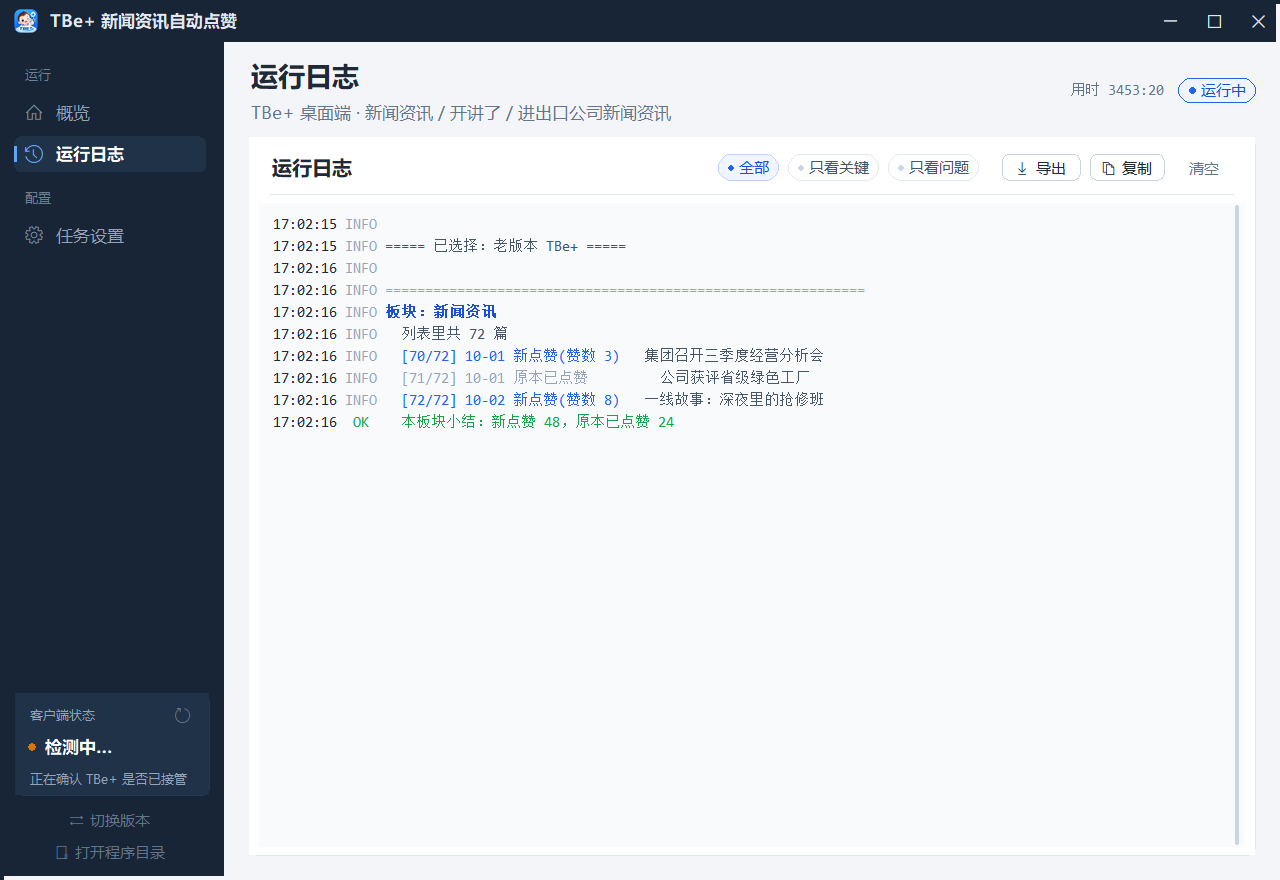
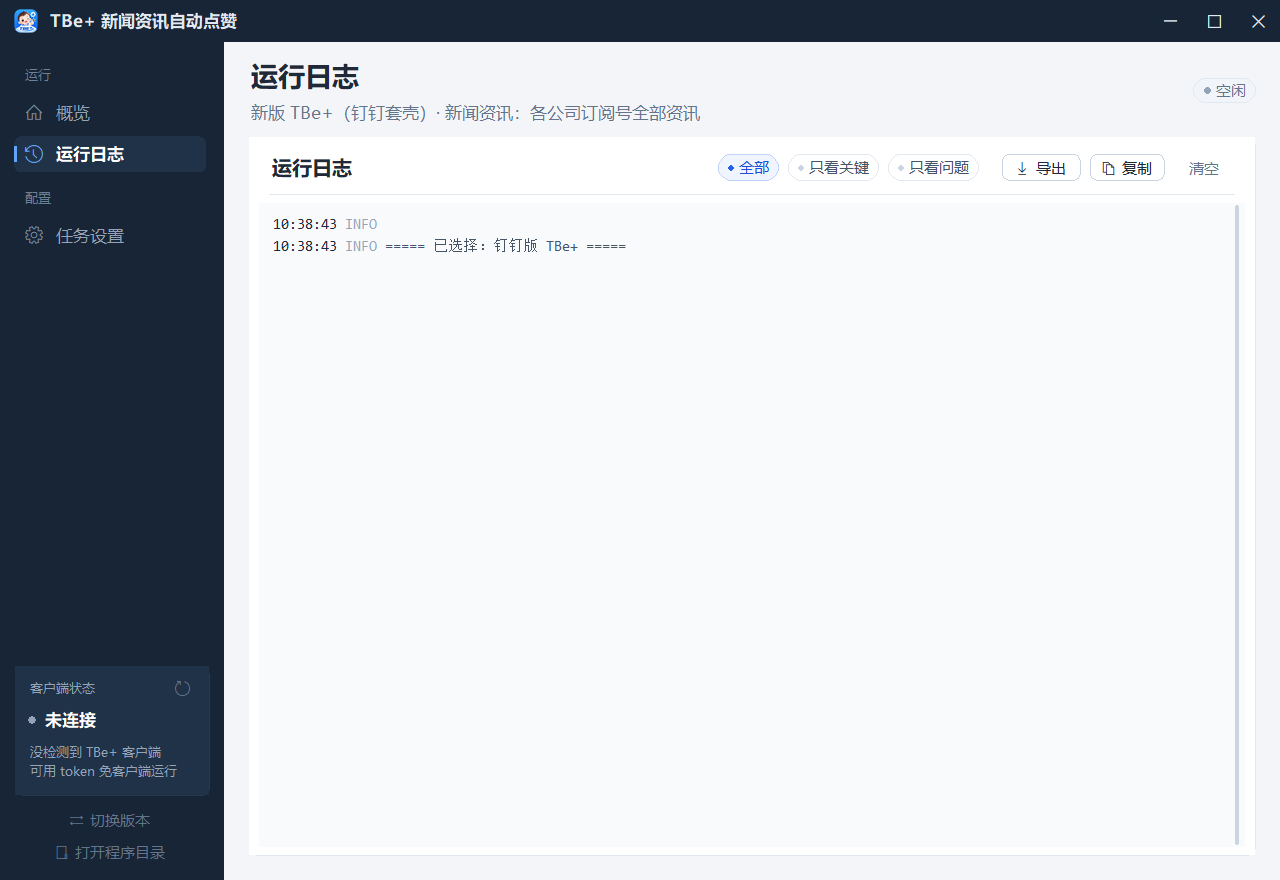
fix(ui): 修无边框窗口边缘漏白与侧栏状态卡裁切（1.7.1）
- 拖拽热区按区域拆分：标题栏/侧栏深色、内容区浅色，版本页全浅色；
  去掉标题栏右侧热区，避免盖住关闭按钮最右 4px（关闭 hover 不再缺一角）
- 侧栏「客户端状态」卡去掉写死高度，改 Panel.fit() 按内容算高；
  说明 Label 加 wraplength=166 并精简文案，状态变化后重新 fit
- 版本 1.7.0 → 1.7.1；README、UI改造说明、docs/screenshots 同步
- 验证：四边像素采样无白边；说明完整在卡内、底部按钮不溢出侧栏；
  三页切换/开关/写回/无客户端试运行复位通过

engine.py / client.py / newsapi.py / config.py 零改动。

diff --git a/tbeplus/ui.py b/tbeplus/ui.py
@@ -314,34 +314,49 @@ class App:
             self.root.after(30, lambda: self.root.overrideredirect(True))
 
     def _install_grips(self) -> None:
-        """无边框窗口的边缘拖拽热区（4px，颜色与所在区域一致，看不出来）。"""
-        self._grips: list = []
-        specs = {
-            "n": ("size_ns", C["nav"]), "s": ("size_ns", C["bg"]),
-            "w": ("size_we", C["nav"]), "e": ("size_we", C["bg"]),
-            "nw": ("size_nw_se", C["nav"]), "ne": ("size_ne_sw", C["nav"]),
-            "sw": ("size_ne_sw", C["nav"]), "se": ("size_nw_se", C["bg"]),
+        """无边框窗口的边缘拖拽热区。
+
+        热区是真实控件，颜色必须与它盖住的那块背景一致，否则会在标题栏、
+        深色侧栏上露白。左右两边的高度、底边的分段都按实际布局算。
+        """
+        self._grips: dict = {}
+        cursors = {
+            "n": "size_ns", "s": "size_ns", "s_left": "size_ns",
+            "w": "size_we", "w_top": "size_we",
+            "e": "size_we",
+            "nw": "size_nw_se", "ne": "size_ne_sw",
+            "sw": "size_ne_sw", "se": "size_nw_se",
         }
-        for name, (cursor, color) in specs.items():
-            frame = tk.Frame(self.root, bg=color, cursor=cursor)
+        for name, cursor in cursors.items():
+            frame = tk.Frame(self.root, bg=C["bg"], cursor=cursor)
             frame.bind("<ButtonPress-1>",
                        lambda e, n=name: self._resize_start(e, n))
             frame.bind("<B1-Motion>", self._resize_move)
-            self._grips.append((name, frame))
+            self._grips[name] = frame
 
     def _place_grips(self) -> None:
         if not getattr(self, "_grips", None):
             return
         g = 4
         w, h = self.root.winfo_width(), self.root.winfo_height()
+        side = T.SIDEBAR_W if self.mode else g
+        side_color = C["nav"] if self.mode else C["bg"]
+        # 名称 -> (x, y, 宽, 高, 颜色)。标题栏永远深色，侧栏只在实际显示时深色。
         pos = {
-            "n": (g, 0, w - 2 * g, g), "s": (g, h - g, w - 2 * g, g),
-            "w": (0, g, g, h - 2 * g), "e": (w - g, g, g, h - 2 * g),
-            "nw": (0, 0, g, g), "ne": (w - g, 0, g, g),
-            "sw": (0, h - g, g, g), "se": (w - g, h - g, g, g),
+            "n": (g, 0, max(0, w - 2 * g), g, C["nav"]),
+            "w_top": (0, 0, g, TITLEBAR_H, C["nav"]),
+            "w": (0, TITLEBAR_H, g, max(0, h - TITLEBAR_H - g), side_color),
+            # 标题栏右侧不做热区：会把关闭按钮最右边 4px 压成深色
+            "e": (w - g, TITLEBAR_H, g, max(0, h - TITLEBAR_H - g), C["bg"]),
+            "s_left": (0, h - g, side, g, side_color),
+            "s": (side, h - g, max(0, w - side - g), g, C["bg"]),
+            "nw": (0, 0, g, g, C["nav"]), "ne": (w - g, 0, g, g, C["nav"]),
+            "sw": (0, h - g, g, g, side_color), "se": (w - g, h - g, g, g, C["bg"]),
         }
-        for name, frame in self._grips:
-            x, y, fw, fh = pos[name]
+        for name, frame in self._grips.items():
+            x, y, fw, fh, color = pos[name]
+            if str(frame.cget("bg")) != color:
+                frame.configure(bg=color)
             frame.place(x=x, y=y, width=fw, height=fh)
             frame.lift()
 
@@ -404,6 +419,7 @@ class App:
     def _show_mode_select(self) -> None:
         self.shell.pack_forget()
         self.mode_page.pack(fill=BOTH, expand=True)
+        self._place_grips()
         self.root.after(80, self._reveal_mode_cards)
 
     def _reveal_mode_cards(self) -> None:
@@ -416,6 +432,7 @@ class App:
         self.mode = mode
         self.mode_page.pack_forget()
         self.shell.pack(fill=BOTH, expand=True)
+        self._place_grips()
         self._build_board_chips()
         for name in self.nav:
             self.nav[name].set_active(name == HOME)
@@ -486,9 +503,9 @@ class App:
         footer.pack(side="bottom", fill=X, padx=14, pady=14)
 
         card = W.Panel(footer, radius=9, fill=C["nav_active"],
-                       stroke=C["nav_line"], height=104, bg=C["nav"])
+                       stroke=C["nav_line"], bg=C["nav"])
         card.pack(fill=X)
-        card.pack_propagate(False)
+        self.status_card = card
         body = card.body
         head = tk.Frame(body, bg=C["nav_active"])
         head.pack(fill=X, padx=12, pady=(9, 0))
@@ -507,10 +524,12 @@ class App:
         tk.Label(line, textvariable=self.status_var, font=T.f(10, True),
                  fg=C["on_dark"], bg=C["nav_active"], anchor="w").pack(
             side=LEFT, padx=(6, 0))
-        self.status_note = StringVar(value="")
+        self.status_note = StringVar(value="\u00a0\n\u00a0")
         tk.Label(body, textvariable=self.status_note, font=T.f(8),
                  fg=C["nav_muted"], bg=C["nav_active"], anchor="w",
-                 justify="left").pack(anchor="w", padx=12, pady=(4, 0))
+                 justify="left", wraplength=166).pack(
+            fill=X, padx=12, pady=(4, 2))
+        card.fit(extra=10)
 
         W.Btn(footer, "切换版本", self._switch_mode, variant="ghost",
               icon="\uE8AB", width=T.NAV_W, height=30, size=9,
@@ -1119,18 +1138,19 @@ class App:
         if port:
             self.cfg.debug_port = port
             title = (targets[0][1] if targets else "") or ""
-            title = title[:16] + ("…" if len(title) > 16 else "")
+            title = title[:12] + ("…" if len(title) > 12 else "")
             self.status_var.set("已连接")
             self.status_note.set(f"端口 {port} · 视图 {len(targets)} 个\n{title}")
             self._draw_dot(C["ok"])
         elif running:
             self.status_var.set("未接管")
-            self.status_note.set("TBe+ 在运行，但没有调试端口\n点「准备」重启并接管")
+            self.status_note.set("TBe+ 在运行，无调试端口\n点「准备」重启并接管")
             self._draw_dot(C["warn"])
         else:
             self.status_var.set("未连接")
-            self.status_note.set("没检测到 TBe+ 客户端\n有 token 时可免客户端直接跑")
+            self.status_note.set("没检测到 TBe+ 客户端\n可用 token 免客户端运行")
             self._draw_dot(C["text3"])
+        self.status_card.fit(extra=10)
         self._refresh_adv()
         self._sync_attach_button()
 

diff --git a/tbeplus/__init__.py b/tbeplus/__init__.py
@@ -9,5 +9,5 @@
     ui       图形界面
 """
 
-__version__ = "1.7.0"
+__version__ = "1.7.1"
 __all__ = ["config", "ws", "cdp", "client", "engine", "ui"]

diff --git a/docs/UI改造说明.md b/docs/UI改造说明.md
@@ -494,3 +494,20 @@ tkinter 的普通子控件没有 opacity/transform，也没有原生组件过渡
 `tbeplus/motion.py`（新增）、`tbeplus/widgets.py`、`tbeplus/ui.py`、`tbeplus/__init__.py`（1.7.0）、
 `assets/mode_old.png`、`assets/mode_dingtalk.png`、`README.md`、`docs/screenshots/*`。
 业务文件 `engine.py` / `client.py` / `newsapi.py` / `config.py` 未改。
+
+
+---
+
+## 十一、1.7.1：修边界色与侧栏状态卡裁切（2026-10-28）
+
+问题来自实际运行截图，两处都是布局细节，不涉及业务：
+
+| 现象 | 原因 | 修法 |
+| --- | --- | --- |
+| 关闭按钮右侧一条白边、窗口右/下边缘发亮 | 无边框窗口的 4px 拖拽热区是真实 Frame，右/下边缘用了 `bg` 浅色，却被铺到了整条边，连深色标题栏和深色侧栏也盖住 | 热区按区域拆分：`w_top`/`n`/`nw`/`ne` 深色，`e`/`s`/`se` 浅色，`s_left`/`sw` 在显示侧栏时深色、在版本页时浅色；右侧标题栏不再放热区，避免压住关闭按钮最右 4px |
+| 左下角「客户端状态」第二行被截、底部像有白边 | 状态卡高度写死 104，说明文字两行装不下；说明 Label 没有折行宽度，长句被右侧裁掉 | 改为 `Panel.fit()` 按内容算高；说明文字加 `wraplength=166` 并精简为自然的短句；每次状态变化后重新 `fit()` |
+
+验证：1280×880 下采样四边像素——标题栏右端 `#172536`、内容区右端 `#F3F5F8`、
+侧栏左下 `#172536`、版本页四角 `#F3F5F8`，无白色杂边；状态说明 Label 底边
+在卡片内、宽度不超 body；底部两个按钮不溢出侧栏；三页切换、板块开关、配置写回、
+无客户端试运行复位均通过。

diff --git a/docs/release_notes_1.7.1.md b/docs/release_notes_1.7.1.md
@@ -1,0 +1,29 @@
+**新闻点赞 1.7.1 版本 —— 修两处界面边缘问题**
+
+这一版只修界面细节，业务逻辑与点赞流程完全没动。
+
+## 修复
+
+- **关闭按钮右侧的白边、窗口右/下边缘发亮**
+  无边框窗口四周有 4px 拖拽热区，原来右、下两边用了浅色，还铺到了深色标题栏
+  和深色侧栏上，所以看起来像漏白。现在热区按区域拆开：标题栏与侧栏部分深色、
+  内容区浅色，右侧标题栏不再放热区，也不会压住关闭按钮。
+
+- **左下角「客户端状态」说明文字被截**
+  状态卡高度原来写死，说明两行装不下；长句还会从右侧被裁。现在卡片按内容
+  自动撑高，说明文字会自动折行，并在每次状态变化后重新量一次高度。
+
+- 说明文案顺带改短了（「可用 token 免客户端运行」），两行读起来更自然。
+
+## 验证
+
+- 1280×880 采样四边像素：标题栏右端 `#172536`、内容区右端 `#F3F5F8`、
+  侧栏左下 `#172536`、版本页四角 `#F3F5F8`，没有白边或杂色；
+- 状态说明完整落在卡片内，底部两个按钮不溢出侧栏；
+- 三页切换、板块开关、配置写回、无客户端试运行复位全部通过；
+- 全模块编译通过，1.7 的动效与图标不受影响。
+
+## 说明
+
+- 免安装包：`TBeAutoLike-1.7.1-win64.exe`；
+- 未签名，SmartScreen 提示时点「更多信息 → 仍要运行」。

diff --git a/README.md b/README.md
@@ -1,6 +1,6 @@
 # liks jck tbe+
 
-**新闻点赞 1.7 版本** —— 一个自动给 TBe+ 新闻资讯点赞的小工具。
+**新闻点赞 1.7.1 版本** —— 一个自动给 TBe+ 新闻资讯点赞的小工具。
 
 把所选版本里每一篇还没点赞的文章都点上；已经点过的会自动跳过，不会重复点。
 
